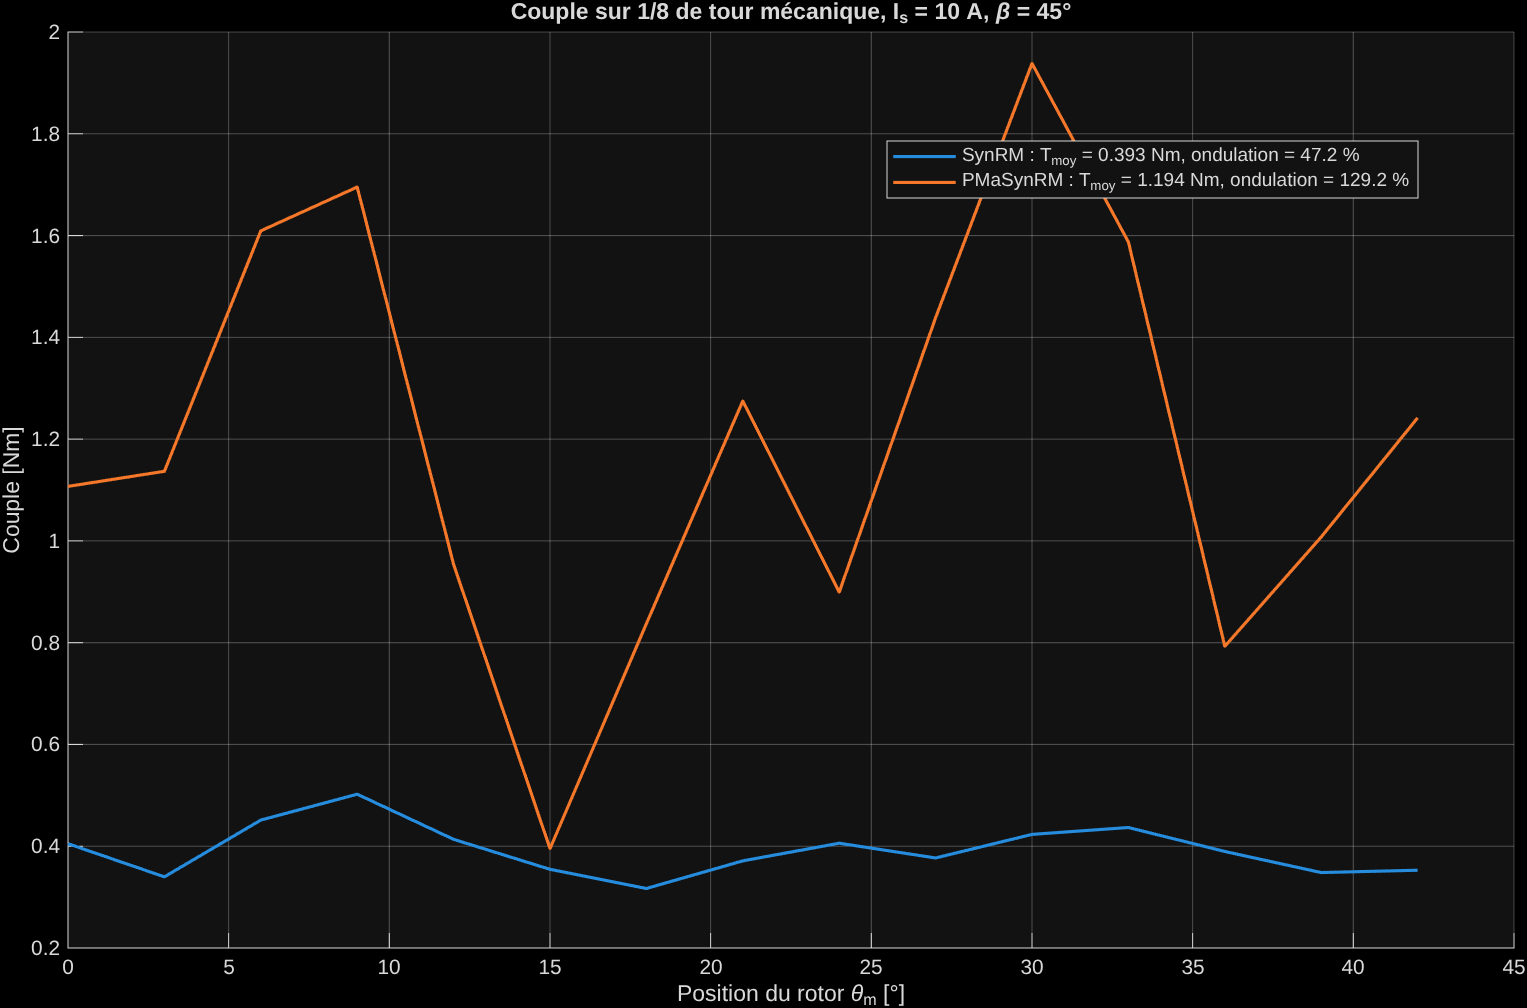
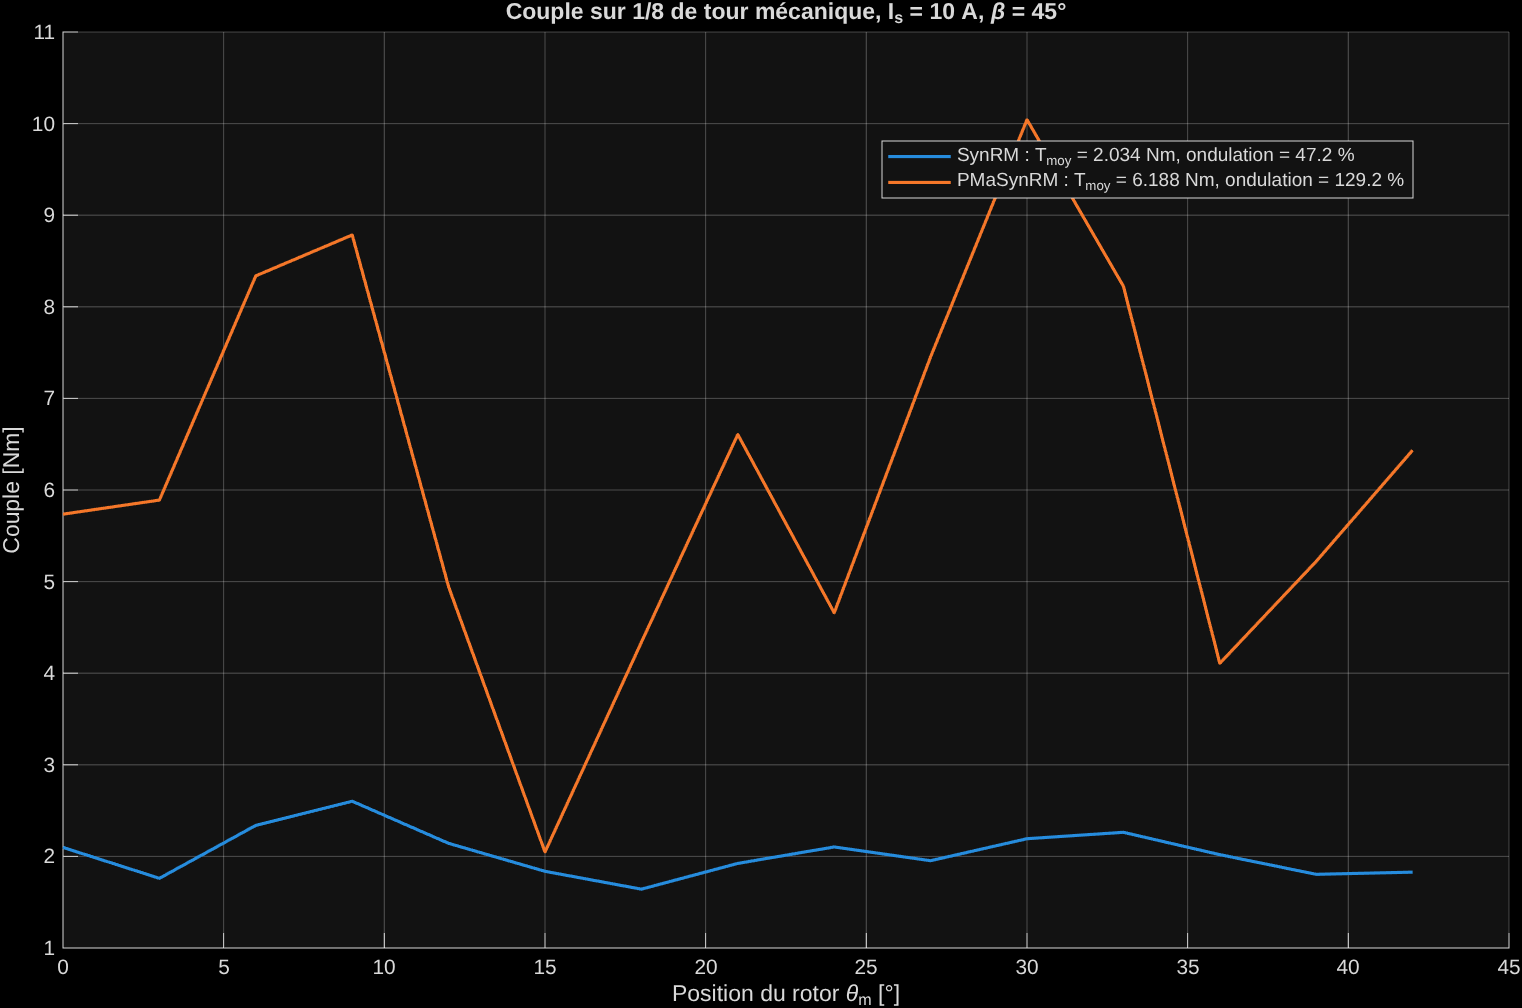
FEMM : longueur active 100 mm (confirmée par le banc), masses et couples régénérés
Is = 10 A, beta = 45° : SynRM 2,03 Nm (ondulation 47 %), PMa-SynRM 6,19 Nm (129 %).
Masse d'aimants 1,41 kg. database/motor_materials.mat (V1) laissé inchangé.

diff --git a/femm/motorConfig.m b/femm/motorConfig.m
@@ -39,7 +39,7 @@ cfg.p        = 2;        % paires de pôles
 cfg.m        = 2;        % nombre de phases
 cfg.phaseShift = [0 pi/2]; % [rad] déphasage des phases (machine diphasée)
 cfg.circuits = {'phase1', 'phase2'}; % noms des circuits FEMM
-cfg.L_active = 19.3e-3;  % [m] longueur active
+cfg.L_active = 0.1;      % [m] longueur active (profondeur du .fem, confirmée par le banc)
 cfg.nSym     = 4;        % le modèle représente 1/4 de la machine
 cfg.rotorGroup = 1;      % groupe FEMM des régions du rotor
 cfg.gapBoundary = 'BandeRoulement1'; % condition d'entrefer (rotation du rotor)

diff --git a/femm/note.md b/femm/note.md
@@ -45,3 +45,10 @@ Fait (13 octobre 2026, soir) :
   (x 5,18 sur tôles, cuivre et aimants).
 - beta = 45° n'est pas le MTPA de la machine à aimants : prévoir un balayage en beta (et Is) pour
   comparer les deux machines à leur MTPA respectif / à puissance équivalente.
+
+Fait (13 octobre 2026, L_active confirmé = 100 mm par Romain) :
+- motorConfig.m : cfg.L_active = 0.1. Masses (machine complète) : tôles stator 3,60 kg, rotor 2,17 kg,
+  aimants 1,41 kg (PMa-SynRM). Fichiers tmp/motor_materials_SynRM.mat et _PMaSynRM.mat.
+  database/motor_materials.mat (V1, 19,3 mm) NON remplacé : à faire pour l'ACV V2 (masses x 5,18).
+- torqueRipple.m à 100 mm, Is = 10 A, beta = 45° : SynRM 2,03 Nm (ondulation c-c 47 %),
+  PMa-SynRM 6,19 Nm (129 %). Prochaine étape : balayage en beta pour le MTPA de chaque machine.
